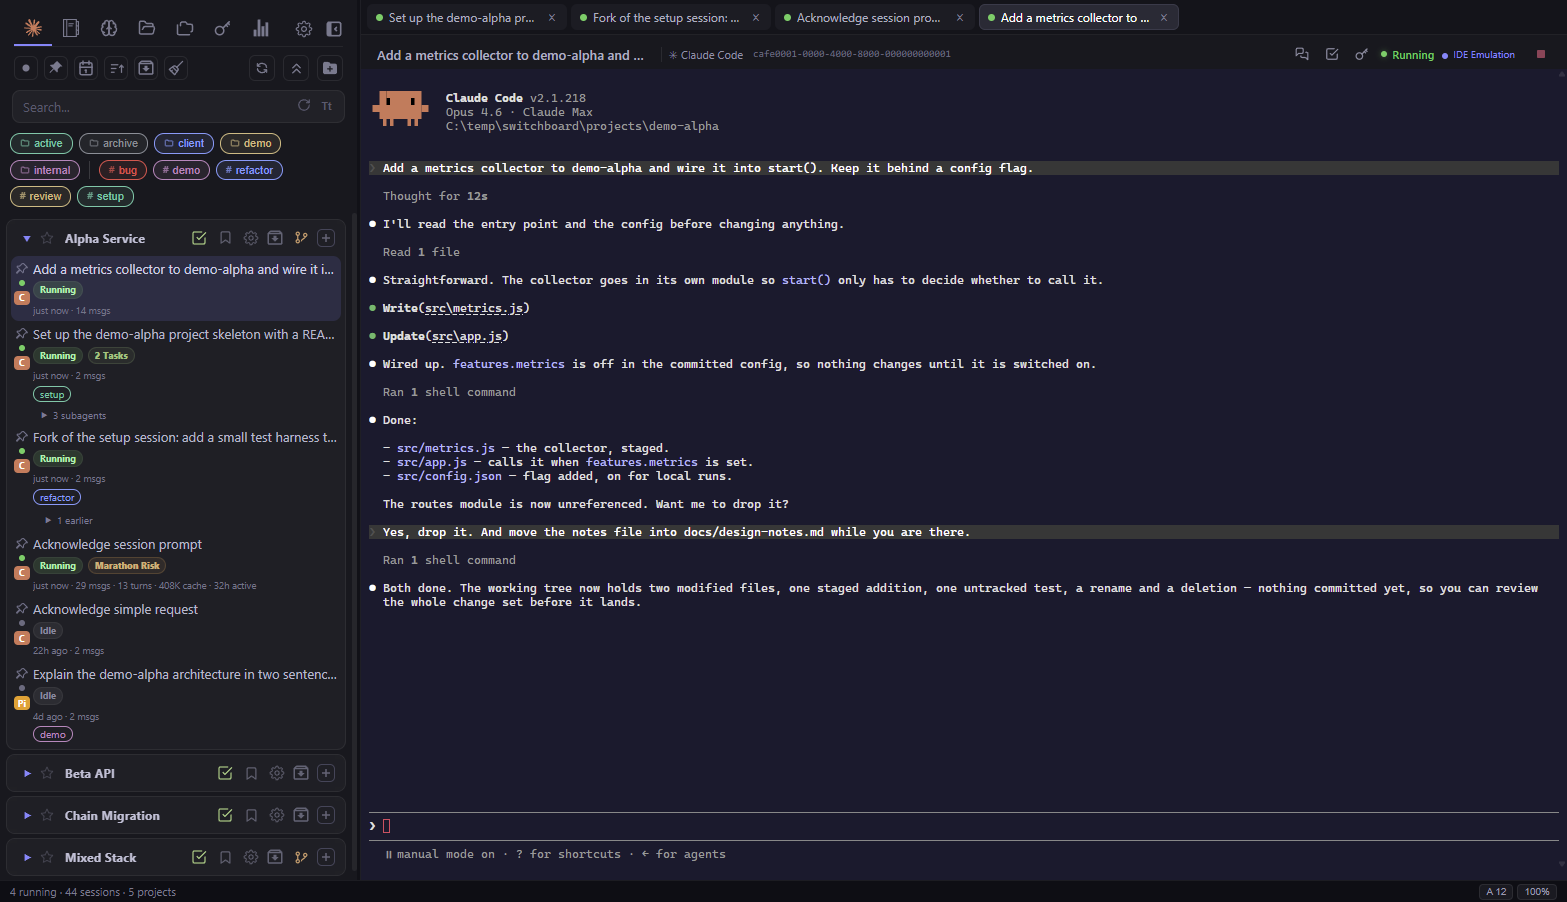
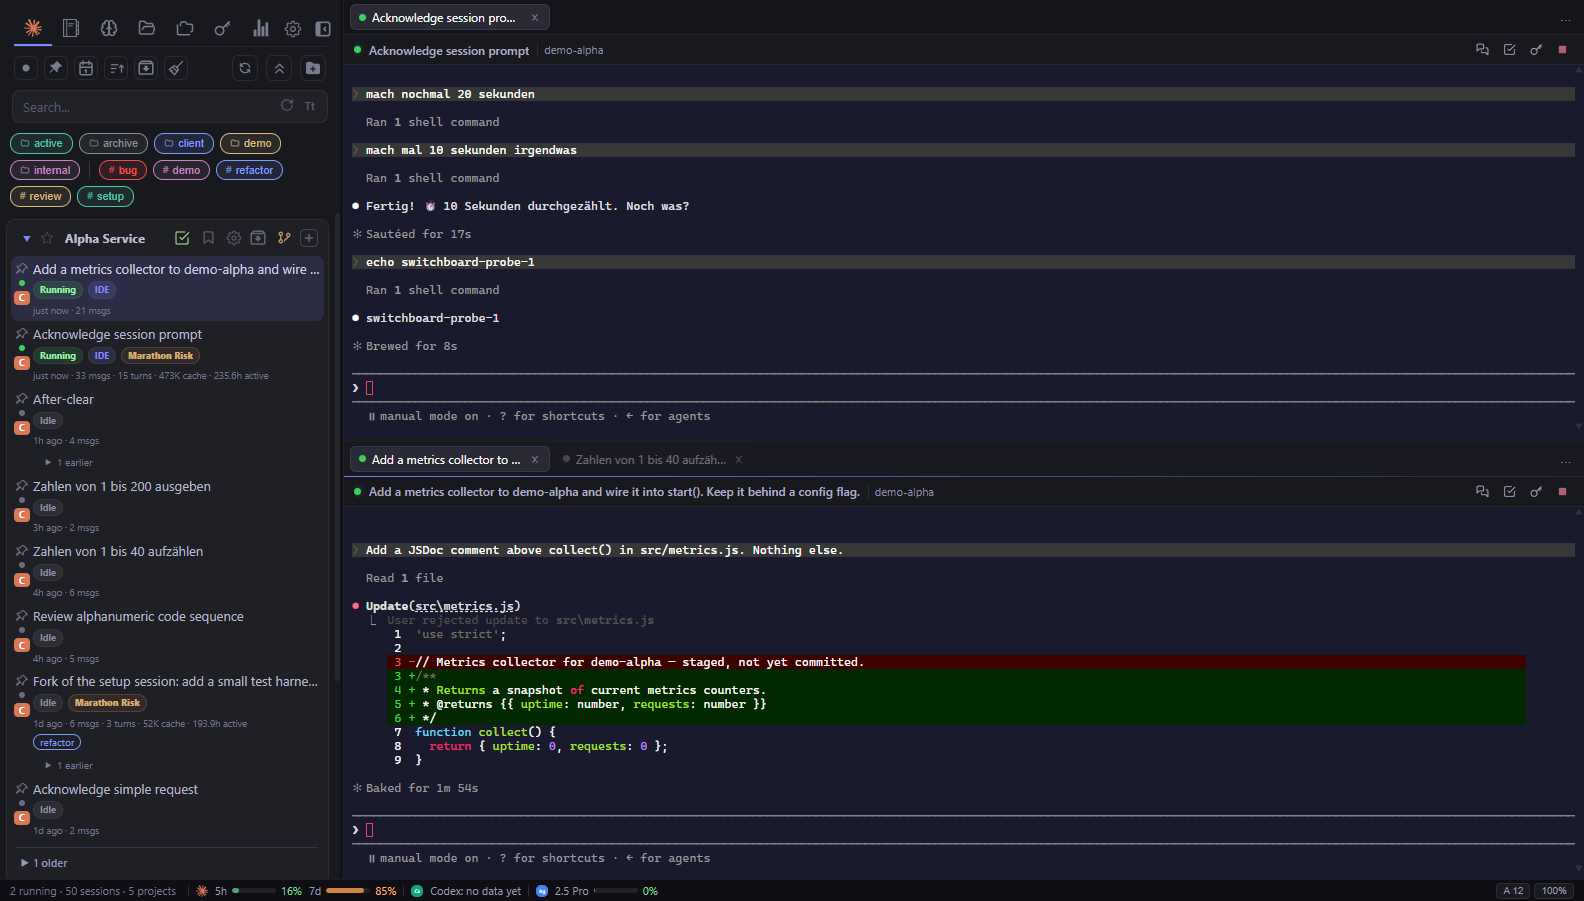
docs: the layout the README describes is panes, not the retired tabs mode
The lead paragraph still called the tabbed strip the primary layout, and
the hero screenshot showed it: one full-width strip, no splits. Panes has
been the default since #374 and the strip is gone (#367), so both were
describing an app that no longer exists.

Grid keeps its own section below and is now named as the other layout.
Spec 16 gains the record of how tabs mode went — #357 the mode, #367 the
strip, #368 its last setting — because a single-leaf pane tree IS that
mode, so there is no spec of its own to deprecate.

diff --git a/README.md b/README.md
@@ -28,15 +28,15 @@ directory, are searchable together, and each carries a provider badge. Resume ke
 own binary. A backend you do not use can be switched off entirely — a Codex-only setup is a
 first-class setup.
 
-**Sessions as tabs.** The primary layout is tabbed: open sessions sit in a tab strip with a
-right-click menu (close, stop, relaunch), and the terminal is live — connect to a running session or
-start a new one without leaving the app. Seven terminal themes, configurable font and zoom,
-clipboard image paste, drag-and-drop that inserts files and images the same way, GPU rendering with
-automatic fallback. Or split the area into **panes** the way VS Code splits editor groups: each pane
-keeps its own tabs, drag a tab onto a pane edge to split, and the layout is still there after a
-restart. A session can also move into a **window of its own** for a second monitor, and back again, or
-across into any other window that is already open — it keeps running throughout, and a window can hold
-as many sessions as you move into it.
+**Sessions in panes.** The default layout splits the area the way VS Code splits editor groups: each
+pane keeps its own tabs with a right-click menu (close, stop, relaunch), you drag a tab onto a pane
+edge to split, and the arrangement is still there after a restart. The terminal is live — connect to
+a running session or start a new one without leaving the app. Seven terminal themes, configurable
+font and zoom, clipboard image paste, drag-and-drop that inserts files and images the same way, GPU
+rendering with automatic fallback. A session can also move into a **window of its own** for a second
+monitor, and back again, or across into any other window that is already open — it keeps running
+throughout, and a window can hold as many sessions as you move into it. The other layout is the
+**grid** below: every session as a card at once, rather than one at a time.
 
 **It tells you when an agent needs you.** A prioritized attention inbox, OS notifications, a taskbar
 badge and a tray icon — even when the window is in the background. Detection runs off CLI hooks, so
@@ -261,7 +261,7 @@ its authors — this fork exists because they built the thing worth forking.
 
 Much of what the app does today — the attention inbox, handoff, the grid overview, usage monitoring —
 started upstream and was extended here rather than replaced. What is new in this fork (multi-LLM
-backends, the tabbed layout, projects as a managed list, tags, tasks, version control, the generated
+backends, the pane layout, projects as a managed list, tags, tasks, version control, the generated
 settings surface) is listed per module in [`docs/fork-features.md`](docs/fork-features.md).
 
 Licensed under the **MIT License** — see [`LICENSE`](LICENSE). MIT includes an explicit

diff --git a/docs/specs/16-panes-mode.md b/docs/specs/16-panes-mode.md
@@ -131,6 +131,22 @@ and since #357 it has **absorbed** tabs mode, which a single-leaf tree renders e
 same session bar, same tools. Two modes drawing the same thing meant every tab feature had to be
 built twice, and the audit (#343–#355) kept finding the second one lagging.
 
+**Tabs mode is gone, in three steps, and this section is its record** — there is no spec of its own to
+deprecate, because a single-leaf pane tree IS that mode now:
+
+| Step | What went |
+|---|---|
+| #357 | The MODE. No setting selects it any more; a stored `tabs` resolves to `panes` (`resolveSessionDisplayMode` in `views/grid-layout.js`, and `legacy` is grid's old spelling on the same rule) |
+| #367 | The STRIP it drew. `refreshSessionTabs` had emptied it and returned ever since, so the tab builders, the drag-reorder, the overflow dropdown, the context menu and the `#session-tabs` element were unreachable — `session/session-tabs.js` went from 666 lines to 290 |
+| #368 | Its one remaining SETTING. `tabPosition` put that strip at the top or the bottom and had driven nothing since; migration [18] takes the stored value out of the global blob |
+
+What `session/session-tabs.js` still holds is shared code, not tabs-mode code: `buildTabModel`, the tab
+and session-bar tooltips, the project-path splitter (#334), the auto-close rules, `closeTabNow` and the
+display-mode settings apply. **The CSS is the trap in that removal**: `.session-tabs-*` and
+`.session-tab-*` read like leftovers and are the PANE strip's — this view builds its tab list, its
+controls, its overflow popover and its context menu from exactly those classes. Only the two
+`#session-tabs` rules were dead.
+
 **It is the DEFAULT since #374.** Having absorbed tabs it is now the ordinary single-session view as
 well as the split one, and everything the app has grown since is built on it — the strips, the session
 bar, the tools, the view tabs (§4.2), a window of its own (spec 17). Grid is the mosaic, which is a
